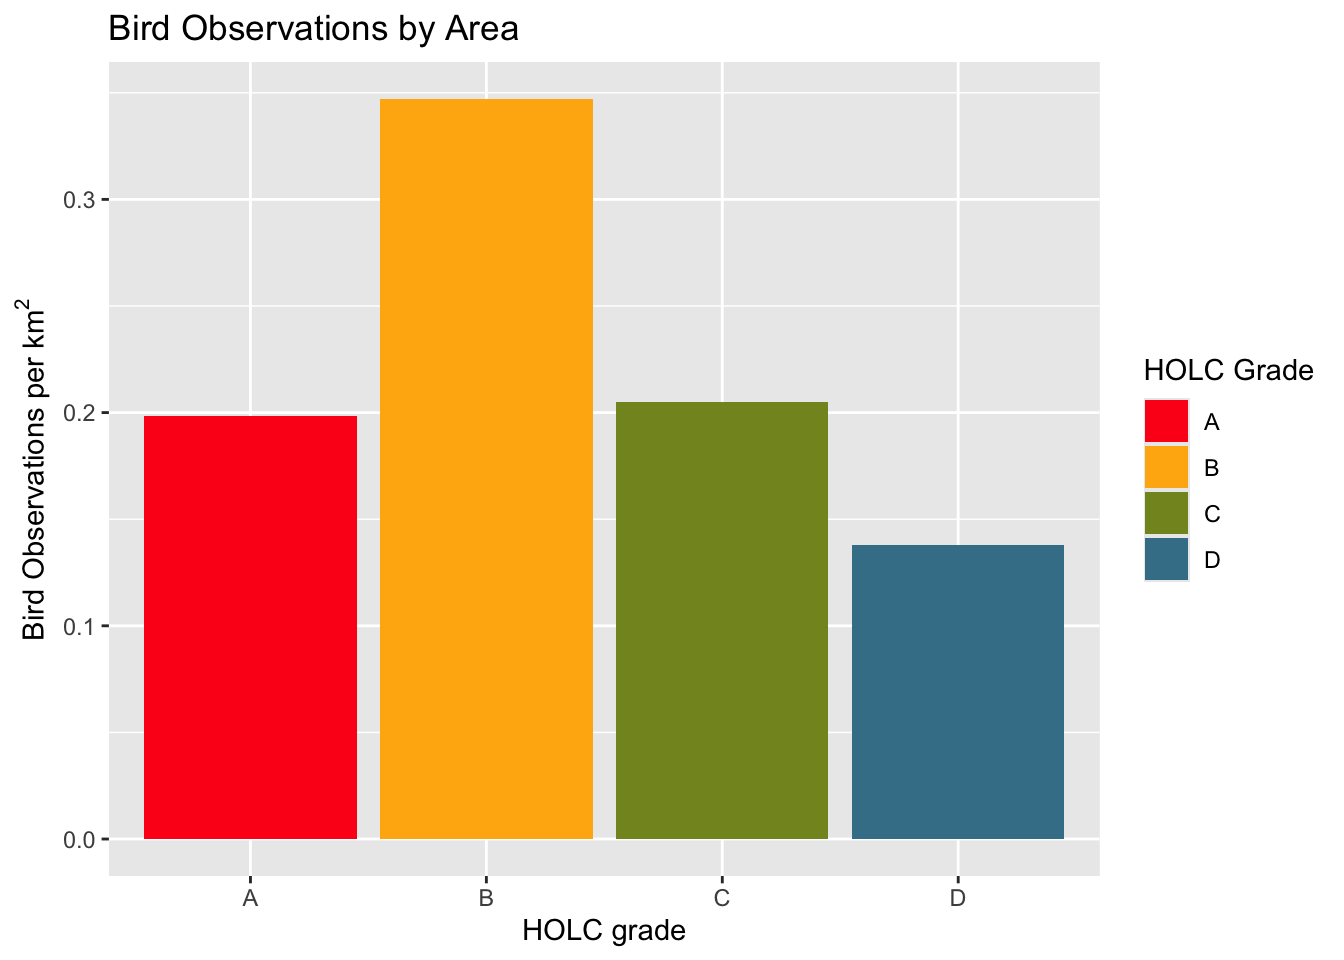
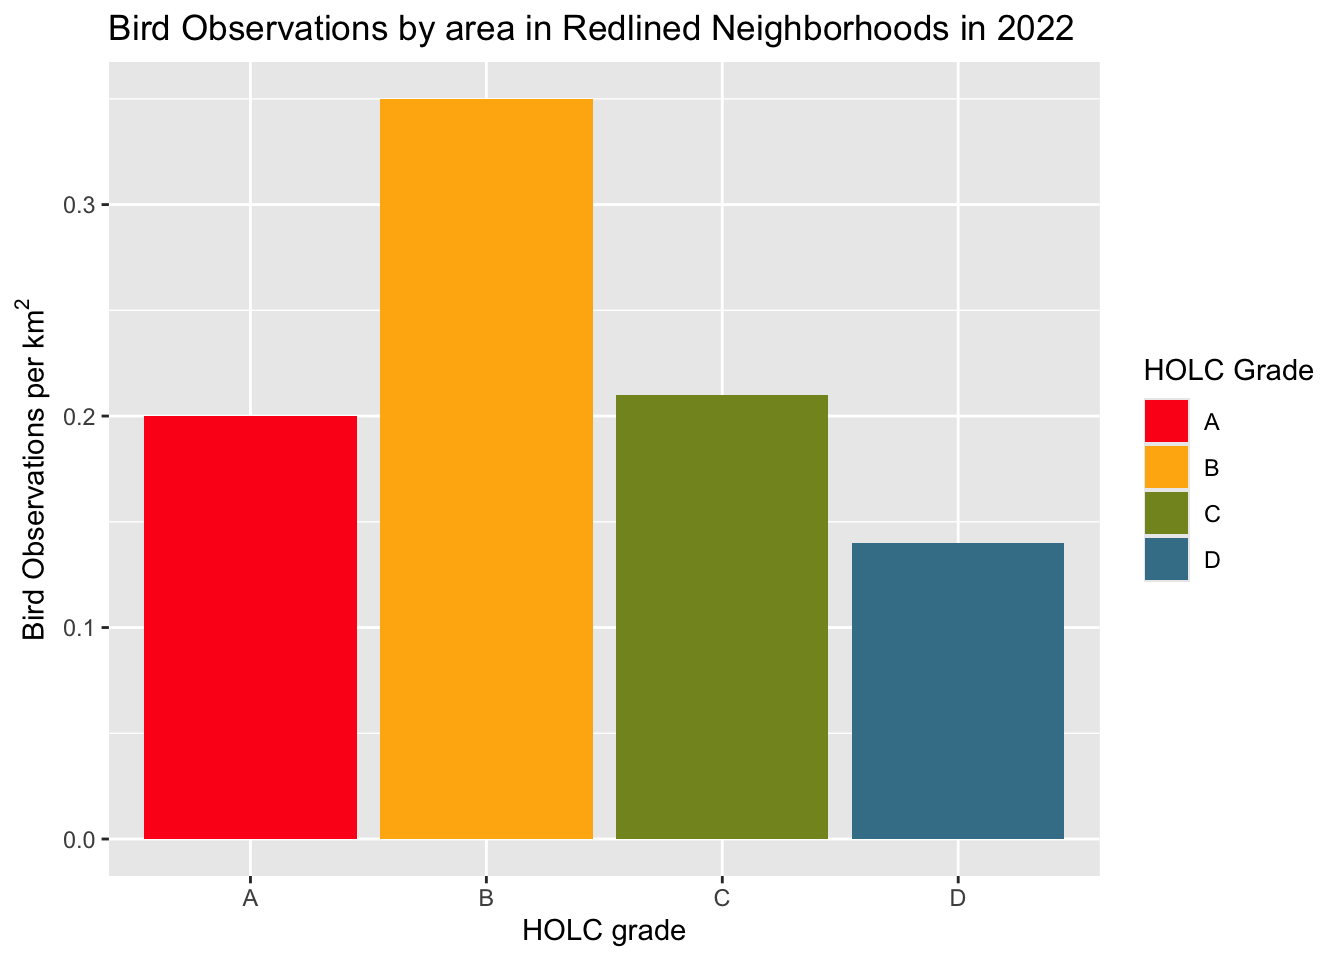
add explanations

diff --git a/holc-biodiversity.html b/holc-biodiversity.html
@@ -7,7 +7,7 @@
 <meta name="viewport" content="width=device-width, initial-scale=1.0, user-scalable=yes">
 
 <meta name="author" content="Josephine Cardelle">
-<meta name="dcterms.date" content="2024-12-06">
+<meta name="dcterms.date" content="2024-12-07">
 
 <title>Redlining and its effects on biodiversity in Los Angeles County</title>
 <style>
@@ -81,14 +81,17 @@ pre > code.sourceCode > span > a:first-child::before { text-decoration: underlin
     <h2 id="toc-title">Table of contents</h2>
    
   <ul>
-  <li><a href="#load-packages" id="toc-load-packages" class="nav-link active" data-scroll-target="#load-packages">Load packages</a></li>
+  <li><a href="#about" id="toc-about" class="nav-link active" data-scroll-target="#about">About</a>
+  <ul class="collapse">
+  <li><a href="#load-packages" id="toc-load-packages" class="nav-link" data-scroll-target="#load-packages">Load packages</a></li>
+  </ul></li>
   <li><a href="#legacy-of-redlining-in-la-county" id="toc-legacy-of-redlining-in-la-county" class="nav-link" data-scroll-target="#legacy-of-redlining-in-la-county">Legacy of redlining in LA County</a>
   <ul class="collapse">
-  <li><a href="#import-data" id="toc-import-data" class="nav-link" data-scroll-target="#import-data">Import Data</a></li>
-  <li><a href="#visualize-data" id="toc-visualize-data" class="nav-link" data-scroll-target="#visualize-data">Visualize Data</a></li>
+  <li><a href="#import-data" id="toc-import-data" class="nav-link" data-scroll-target="#import-data">Import data</a></li>
+  <li><a href="#visualize-data" id="toc-visualize-data" class="nav-link" data-scroll-target="#visualize-data">Visualize data</a></li>
   </ul></li>
-  <li><a href="#legacy-of-redlining-in-biodiversity-observations" id="toc-legacy-of-redlining-in-biodiversity-observations" class="nav-link" data-scroll-target="#legacy-of-redlining-in-biodiversity-observations">Legacy of redlining in biodiversity observations</a></li>
-  <li><a href="#data-citations" id="toc-data-citations" class="nav-link" data-scroll-target="#data-citations">Data Citations</a></li>
+  <li><a href="#effects-of-redlining-on-biodiversity" id="toc-effects-of-redlining-on-biodiversity" class="nav-link" data-scroll-target="#effects-of-redlining-on-biodiversity">Effects of redlining on biodiversity</a></li>
+  <li><a href="#citations" id="toc-citations" class="nav-link" data-scroll-target="#citations">Citations</a></li>
   </ul>
 </nav>
 </div>
@@ -114,7 +117,7 @@ pre > code.sourceCode > span > a:first-child::before { text-decoration: underlin
     <div>
     <div class="quarto-title-meta-heading">Published</div>
     <div class="quarto-title-meta-contents">
-      <p class="date">December 6, 2024</p>
+      <p class="date">December 7, 2024</p>
     </div>
   </div>
   
@@ -126,6 +129,9 @@ pre > code.sourceCode > span > a:first-child::before { text-decoration: underlin
 </header>
 
 
+<section id="about" class="level2">
+<h2 class="anchored" data-anchor-id="about">About</h2>
+<p>Redlining refers to a practice by the Home Owners’ Loan Corporation(HOLC) that dates back to the 1930’s. The HOLC would rate neighborhoods (A, B, C, or D) by “residential security” in various American cities. In this analysis we will explore the effects of redlining on health, economy, and environment today.</p>
 <section id="load-packages" class="level3">
 <h3 class="anchored" data-anchor-id="load-packages">Load packages</h3>
 <div class="cell">
@@ -142,11 +148,12 @@ pre > code.sourceCode > span > a:first-child::before { text-decoration: underlin
 </details>
 </div>
 </section>
+</section>
 <section id="legacy-of-redlining-in-la-county" class="level2">
 <h2 class="anchored" data-anchor-id="legacy-of-redlining-in-la-county">Legacy of redlining in LA County</h2>
 <p>Here, we will create a map showing the various HOLC grades in LA counties. We will then use visualizations to summarize the current conditions of these counties based on the variables percent low income, percentile for Particulate Matter 2.5, and percentile for low life expectancy. We will use the mean value in each county for these visualizations</p>
 <section id="import-data" class="level3">
-<h3 class="anchored" data-anchor-id="import-data">Import Data</h3>
+<h3 class="anchored" data-anchor-id="import-data">Import data</h3>
 <div class="cell">
 <details class="code-fold">
 <summary>Show the code</summary>
@@ -179,7 +186,7 @@ pre > code.sourceCode > span > a:first-child::before { text-decoration: underlin
 </div>
 </section>
 <section id="visualize-data" class="level3">
-<h3 class="anchored" data-anchor-id="visualize-data">Visualize Data</h3>
+<h3 class="anchored" data-anchor-id="visualize-data">Visualize data</h3>
 <div class="cell">
 <details class="code-fold">
 <summary>Show the code</summary>
@@ -218,7 +225,7 @@ pre > code.sourceCode > span > a:first-child::before { text-decoration: underlin
 <span id="cb6-6"><a href="#cb6-6" aria-hidden="true" tabindex="-1"></a>percent_holc <span class="ot">&lt;-</span> red_cbg <span class="sc">%&gt;%</span></span>
 <span id="cb6-7"><a href="#cb6-7" aria-hidden="true" tabindex="-1"></a><span class="fu">group_by</span>(grade) <span class="sc">%&gt;%</span></span>
 <span id="cb6-8"><a href="#cb6-8" aria-hidden="true" tabindex="-1"></a><span class="fu">summarise</span>(<span class="at">count =</span> <span class="fu">n</span>()) <span class="sc">%&gt;%</span></span>
-<span id="cb6-9"><a href="#cb6-9" aria-hidden="true" tabindex="-1"></a><span class="fu">mutate</span>(<span class="at">percent =</span> (count <span class="sc">/</span> <span class="fu">sum</span>(count))<span class="sc">*</span><span class="dv">100</span> ) <span class="sc">%&gt;%</span> </span>
+<span id="cb6-9"><a href="#cb6-9" aria-hidden="true" tabindex="-1"></a><span class="fu">mutate</span>(<span class="at">percent =</span> <span class="fu">round</span>((count <span class="sc">/</span> <span class="fu">sum</span>(count))<span class="sc">*</span><span class="dv">100</span>, <span class="dv">2</span>)) <span class="sc">%&gt;%</span> </span>
 <span id="cb6-10"><a href="#cb6-10" aria-hidden="true" tabindex="-1"></a><span class="fu">select</span>(<span class="sc">-</span>count) <span class="sc">%&gt;%</span> </span>
 <span id="cb6-11"><a href="#cb6-11" aria-hidden="true" tabindex="-1"></a><span class="fu">st_drop_geometry</span>()</span>
 <span id="cb6-12"><a href="#cb6-12" aria-hidden="true" tabindex="-1"></a></span>
@@ -241,23 +248,23 @@ pre > code.sourceCode > span > a:first-child::before { text-decoration: underlin
 <tbody>
 <tr class="odd">
 <td style="text-align: left;">A</td>
-<td style="text-align: right;">7.028804</td>
+<td style="text-align: right;">7.03</td>
 </tr>
 <tr class="even">
 <td style="text-align: left;">B</td>
-<td style="text-align: right;">19.395742</td>
+<td style="text-align: right;">19.40</td>
 </tr>
 <tr class="odd">
 <td style="text-align: left;">C</td>
-<td style="text-align: right;">47.871008</td>
+<td style="text-align: right;">47.87</td>
 </tr>
 <tr class="even">
 <td style="text-align: left;">D</td>
-<td style="text-align: right;">21.070758</td>
+<td style="text-align: right;">21.07</td>
 </tr>
 <tr class="odd">
 <td style="text-align: left;">NA</td>
-<td style="text-align: right;">4.633688</td>
+<td style="text-align: right;">4.63</td>
 </tr>
 </tbody>
 </table>
@@ -334,8 +341,8 @@ pre > code.sourceCode > span > a:first-child::before { text-decoration: underlin
 <p>The results showed the highest values for % low income, percentile for PM 2.5, and percentile for low life expectancy in HOLC grade D. The lowest for all three variables was shown in HOLC grade A. This shows extreme inequalities in the different grades in economy, environment, and health.</p>
 </section>
 </section>
-<section id="legacy-of-redlining-in-biodiversity-observations" class="level2">
-<h2 class="anchored" data-anchor-id="legacy-of-redlining-in-biodiversity-observations">Legacy of redlining in biodiversity observations</h2>
+<section id="effects-of-redlining-on-biodiversity" class="level2">
+<h2 class="anchored" data-anchor-id="effects-of-redlining-on-biodiversity">Effects of redlining on biodiversity</h2>
 <p>Next, we’ll analyze the effects redlining has had on biodiversity. We’ll specifically explore the differences in bird observations in 2022 in each HOLC grade.</p>
 <div class="cell">
 <details class="code-fold">
@@ -372,7 +379,7 @@ pre > code.sourceCode > span > a:first-child::before { text-decoration: underlin
 <span id="cb13-7"><a href="#cb13-7" aria-hidden="true" tabindex="-1"></a>birds_percent <span class="ot">&lt;-</span> red_birds <span class="sc">%&gt;%</span></span>
 <span id="cb13-8"><a href="#cb13-8" aria-hidden="true" tabindex="-1"></a><span class="fu">group_by</span>(grade) <span class="sc">%&gt;%</span></span>
 <span id="cb13-9"><a href="#cb13-9" aria-hidden="true" tabindex="-1"></a><span class="fu">summarise</span>(<span class="at">count =</span> <span class="fu">n</span>()) <span class="sc">%&gt;%</span></span>
-<span id="cb13-10"><a href="#cb13-10" aria-hidden="true" tabindex="-1"></a><span class="fu">mutate</span>(<span class="at">percent =</span> (count <span class="sc">/</span> <span class="fu">sum</span>(count))<span class="sc">*</span><span class="dv">100</span> ) <span class="sc">%&gt;%</span> </span>
+<span id="cb13-10"><a href="#cb13-10" aria-hidden="true" tabindex="-1"></a><span class="fu">mutate</span>(<span class="at">percent =</span> <span class="fu">round</span>((count <span class="sc">/</span> <span class="fu">sum</span>(count))<span class="sc">*</span><span class="dv">100</span>, <span class="dv">2</span>)) <span class="sc">%&gt;%</span> </span>
 <span id="cb13-11"><a href="#cb13-11" aria-hidden="true" tabindex="-1"></a><span class="fu">select</span>(<span class="sc">-</span>count) <span class="sc">%&gt;%</span> </span>
 <span id="cb13-12"><a href="#cb13-12" aria-hidden="true" tabindex="-1"></a><span class="fu">st_drop_geometry</span>()</span>
 <span id="cb13-13"><a href="#cb13-13" aria-hidden="true" tabindex="-1"></a></span>
@@ -391,19 +398,19 @@ pre > code.sourceCode > span > a:first-child::before { text-decoration: underlin
 <tbody>
 <tr class="odd">
 <td style="text-align: left;">A</td>
-<td style="text-align: right;">15.67568</td>
+<td style="text-align: right;">15.68</td>
 </tr>
 <tr class="even">
 <td style="text-align: left;">B</td>
-<td style="text-align: right;">19.41563</td>
+<td style="text-align: right;">19.42</td>
 </tr>
 <tr class="odd">
 <td style="text-align: left;">C</td>
-<td style="text-align: right;">35.63185</td>
+<td style="text-align: right;">35.63</td>
 </tr>
 <tr class="even">
 <td style="text-align: left;">D</td>
-<td style="text-align: right;">29.27684</td>
+<td style="text-align: right;">29.28</td>
 </tr>
 </tbody>
 </table>
@@ -430,24 +437,58 @@ pre > code.sourceCode > span > a:first-child::before { text-decoration: underlin
 </div>
 <details class="code-fold">
 <summary>Show the code</summary>
-<div class="sourceCode cell-code" id="cb15"><pre class="sourceCode r code-with-copy"><code class="sourceCode r"><span id="cb15-1"><a href="#cb15-1" aria-hidden="true" tabindex="-1"></a>birds_percent_area <span class="ot">&lt;-</span> red_birds <span class="sc">%&gt;%</span></span>
+<div class="sourceCode cell-code" id="cb15"><pre class="sourceCode r code-with-copy"><code class="sourceCode r"><span id="cb15-1"><a href="#cb15-1" aria-hidden="true" tabindex="-1"></a>birds_count_area <span class="ot">&lt;-</span> red_birds <span class="sc">%&gt;%</span></span>
 <span id="cb15-2"><a href="#cb15-2" aria-hidden="true" tabindex="-1"></a>  <span class="fu">mutate</span>(<span class="at">area_km2 =</span> <span class="fu">as.numeric</span>(<span class="fu">st_area</span>(geometry)<span class="sc">/</span><span class="fl">1e6</span>)) <span class="sc">%&gt;%</span> </span>
 <span id="cb15-3"><a href="#cb15-3" aria-hidden="true" tabindex="-1"></a>  <span class="fu">group_by</span>(grade)  <span class="sc">%&gt;%</span> </span>
 <span id="cb15-4"><a href="#cb15-4" aria-hidden="true" tabindex="-1"></a>  <span class="fu">summarise</span>(</span>
 <span id="cb15-5"><a href="#cb15-5" aria-hidden="true" tabindex="-1"></a>    <span class="at">total_area_km2 =</span> <span class="fu">sum</span>(area_km2, <span class="at">na.rm =</span> <span class="cn">TRUE</span>),</span>
 <span id="cb15-6"><a href="#cb15-6" aria-hidden="true" tabindex="-1"></a>    <span class="at">grade_count =</span> <span class="fu">n</span>()) <span class="sc">%&gt;%</span></span>
-<span id="cb15-7"><a href="#cb15-7" aria-hidden="true" tabindex="-1"></a>  <span class="fu">mutate</span>(<span class="at">birds_per_km2 =</span> (grade_count<span class="sc">/</span>total_area_km2)) <span class="sc">%&gt;%</span></span>
-<span id="cb15-8"><a href="#cb15-8" aria-hidden="true" tabindex="-1"></a>  <span class="fu">st_drop_geometry</span>() </span>
-<span id="cb15-9"><a href="#cb15-9" aria-hidden="true" tabindex="-1"></a></span>
-<span id="cb15-10"><a href="#cb15-10" aria-hidden="true" tabindex="-1"></a><span class="fu">ggplot</span>(birds_percent_area) <span class="sc">+</span></span>
-<span id="cb15-11"><a href="#cb15-11" aria-hidden="true" tabindex="-1"></a><span class="fu">geom_col</span>(<span class="fu">aes</span>(<span class="at">x =</span> grade, </span>
-<span id="cb15-12"><a href="#cb15-12" aria-hidden="true" tabindex="-1"></a>             <span class="at">y =</span> birds_per_km2, </span>
-<span id="cb15-13"><a href="#cb15-13" aria-hidden="true" tabindex="-1"></a>             <span class="at">fill =</span> grade)) <span class="sc">+</span></span>
-<span id="cb15-14"><a href="#cb15-14" aria-hidden="true" tabindex="-1"></a><span class="fu">scale_fill_manual</span>(<span class="at">values =</span> <span class="fu">c</span>(<span class="st">"#FD151B"</span>, <span class="st">"#FFB30F"</span>, <span class="st">"#849324"</span>, <span class="st">"#437F97"</span>)) <span class="sc">+</span></span>
-<span id="cb15-15"><a href="#cb15-15" aria-hidden="true" tabindex="-1"></a><span class="fu">labs</span>(<span class="at">x =</span> <span class="st">"HOLC grade"</span>, </span>
-<span id="cb15-16"><a href="#cb15-16" aria-hidden="true" tabindex="-1"></a>     <span class="at">y =</span> <span class="fu">expression</span>(<span class="fu">paste</span>(<span class="st">"Bird Observations per "</span>, km<span class="sc">^</span><span class="dv">2</span>)), </span>
-<span id="cb15-17"><a href="#cb15-17" aria-hidden="true" tabindex="-1"></a>     <span class="at">fill =</span> <span class="st">'HOLC Grade'</span>) <span class="sc">+</span></span>
-<span id="cb15-18"><a href="#cb15-18" aria-hidden="true" tabindex="-1"></a>  <span class="fu">ggtitle</span>(<span class="st">"Bird Observations by Area"</span>)</span></code><button title="Copy to Clipboard" class="code-copy-button"><i class="bi"></i></button></pre></div>
+<span id="cb15-7"><a href="#cb15-7" aria-hidden="true" tabindex="-1"></a>  <span class="fu">mutate</span>(<span class="at">birds_per_km2 =</span> <span class="fu">round</span>((grade_count<span class="sc">/</span>total_area_km2), <span class="dv">2</span>)) <span class="sc">%&gt;%</span></span>
+<span id="cb15-8"><a href="#cb15-8" aria-hidden="true" tabindex="-1"></a>  <span class="fu">select</span>(<span class="sc">-</span><span class="fu">c</span>(grade_count, total_area_km2)) <span class="sc">%&gt;%</span> </span>
+<span id="cb15-9"><a href="#cb15-9" aria-hidden="true" tabindex="-1"></a>  <span class="fu">st_drop_geometry</span>() </span>
+<span id="cb15-10"><a href="#cb15-10" aria-hidden="true" tabindex="-1"></a></span>
+<span id="cb15-11"><a href="#cb15-11" aria-hidden="true" tabindex="-1"></a><span class="fu">kable</span>(birds_count_area, <span class="at">caption =</span> <span class="st">"Bird observations per square kilometer in each HOLC grade"</span>)</span></code><button title="Copy to Clipboard" class="code-copy-button"><i class="bi"></i></button></pre></div>
+</details>
+<div class="cell-output-display">
+<table class="caption-top table table-sm table-striped small">
+<caption>Bird observations per square kilometer in each HOLC grade</caption>
+<thead>
+<tr class="header">
+<th style="text-align: left;">grade</th>
+<th style="text-align: right;">birds_per_km2</th>
+</tr>
+</thead>
+<tbody>
+<tr class="odd">
+<td style="text-align: left;">A</td>
+<td style="text-align: right;">0.20</td>
+</tr>
+<tr class="even">
+<td style="text-align: left;">B</td>
+<td style="text-align: right;">0.35</td>
+</tr>
+<tr class="odd">
+<td style="text-align: left;">C</td>
+<td style="text-align: right;">0.21</td>
+</tr>
+<tr class="even">
+<td style="text-align: left;">D</td>
+<td style="text-align: right;">0.14</td>
+</tr>
+</tbody>
+</table>
+</div>
+<details class="code-fold">
+<summary>Show the code</summary>
+<div class="sourceCode cell-code" id="cb16"><pre class="sourceCode r code-with-copy"><code class="sourceCode r"><span id="cb16-1"><a href="#cb16-1" aria-hidden="true" tabindex="-1"></a><span class="fu">ggplot</span>(birds_count_area) <span class="sc">+</span></span>
+<span id="cb16-2"><a href="#cb16-2" aria-hidden="true" tabindex="-1"></a><span class="fu">geom_col</span>(<span class="fu">aes</span>(<span class="at">x =</span> grade, </span>
+<span id="cb16-3"><a href="#cb16-3" aria-hidden="true" tabindex="-1"></a>             <span class="at">y =</span> birds_per_km2, </span>
+<span id="cb16-4"><a href="#cb16-4" aria-hidden="true" tabindex="-1"></a>             <span class="at">fill =</span> grade)) <span class="sc">+</span></span>
+<span id="cb16-5"><a href="#cb16-5" aria-hidden="true" tabindex="-1"></a><span class="fu">scale_fill_manual</span>(<span class="at">values =</span> <span class="fu">c</span>(<span class="st">"#FD151B"</span>, <span class="st">"#FFB30F"</span>, <span class="st">"#849324"</span>, <span class="st">"#437F97"</span>)) <span class="sc">+</span></span>
+<span id="cb16-6"><a href="#cb16-6" aria-hidden="true" tabindex="-1"></a><span class="fu">labs</span>(<span class="at">x =</span> <span class="st">"HOLC grade"</span>, </span>
+<span id="cb16-7"><a href="#cb16-7" aria-hidden="true" tabindex="-1"></a>     <span class="at">y =</span> <span class="fu">expression</span>(<span class="fu">paste</span>(<span class="st">"Bird Observations per "</span>, km<span class="sc">^</span><span class="dv">2</span>)), </span>
+<span id="cb16-8"><a href="#cb16-8" aria-hidden="true" tabindex="-1"></a>     <span class="at">fill =</span> <span class="st">'HOLC Grade'</span>) <span class="sc">+</span></span>
+<span id="cb16-9"><a href="#cb16-9" aria-hidden="true" tabindex="-1"></a>  <span class="fu">ggtitle</span>(<span class="st">"Bird Observations by area in Redlined Neighborhoods in 2022"</span>)</span></code><button title="Copy to Clipboard" class="code-copy-button"><i class="bi"></i></button></pre></div>
 </details>
 <div class="cell-output-display">
 <div>
@@ -457,10 +498,10 @@ pre > code.sourceCode > span > a:first-child::before { text-decoration: underlin
 </div>
 </div>
 </div>
-<p>The first results did not match the expected outcomes. According to Ellis-Soto et al.&nbsp;2023, previously redlined are often underrepresented in biodiversity data collection. However, the results from this table and graph show that the highest percent of bird observations within redlined neighborhoods in LA County were seen in grade C neighborhoods, followed by grade D, then grade B and A, respectively. However, once we visualized the data based on bird observations per square kilometer, the results better matched the expected outcomes. This visualization showed grade B to have the highest bird observations and grade D to have the lowest.</p>
+<p>The first results did not match the expected outcomes. According to <a href="https://pubmed.ncbi.nlm.nih.gov/37679441/">Ellis-Soto et al.</a>, previously redlined are often underrepresented in biodiversity data collection. However, the results from this table and graph show that the highest percent of bird observations within redlined neighborhoods in LA County were seen in grade C neighborhoods, followed by grade D, then grade B and A, respectively. However, once we visualized the data based on bird observations per square kilometer, the results better matched the expected outcomes. This visualization showed grade B to have the highest bird observations and grade D to have the lowest.</p>
 </section>
-<section id="data-citations" class="level2">
-<h2 class="anchored" data-anchor-id="data-citations">Data Citations</h2>
+<section id="citations" class="level2">
+<h2 class="anchored" data-anchor-id="citations">Citations</h2>
 <table class="caption-top table">
 <thead>
 <tr class="header">
